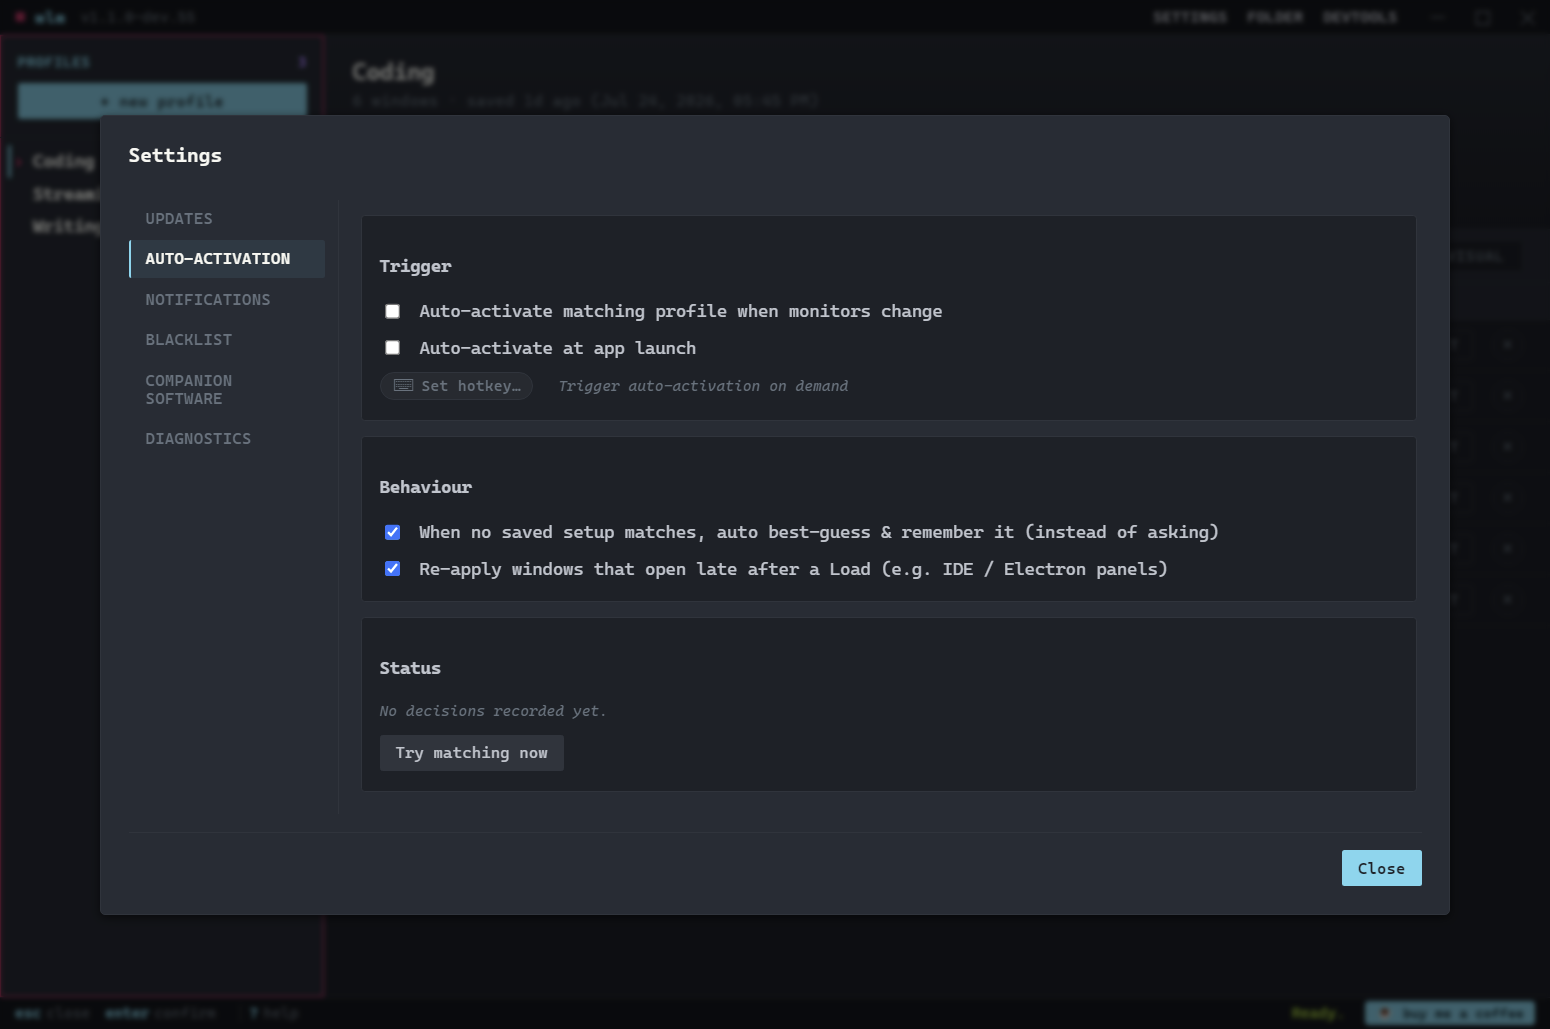
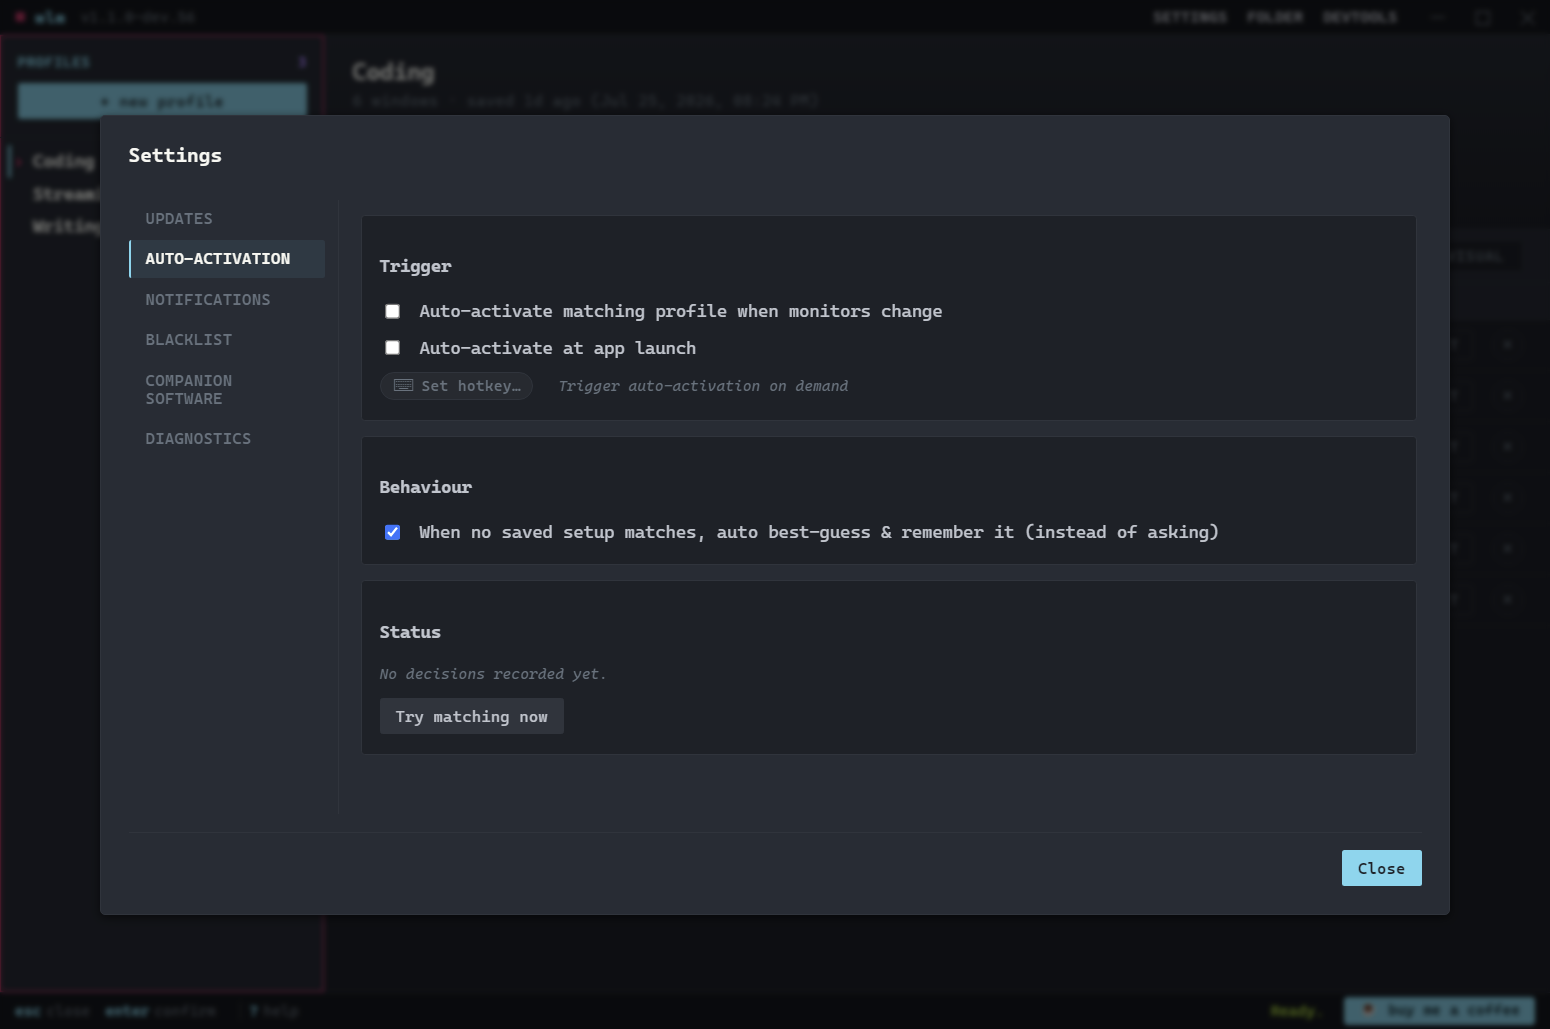
WLM v1.1.0-dev.56: feed, download link, tutorial
Feed points at dev.56 with its sha256 and byte size, and carries the
release notes verbatim since the page renders that field.

Tutorial screenshots regenerated against dev.56. The auto-activation tab
lost the "re-apply windows that open late" checkbox along with the retry
chain, and Diagnostics gained "Request a feature".

New Diagnostics section in the tutorial covering the paths dump and what
the report form sends. The tour has been capturing that screen for a
while with nothing using it.

Screenshots were taken against a neutral C:\Users\Public\wlm-demo
sandbox rather than the default temp dir, so the paths panel does not
publish a username.

Claude-Session: https://claude.ai/code/session_014KfTPNCevtXskfxkABecuc

Changed region(s): [[0.2477, 0.5287, 0.7432, 0.5598], [0.2477, 0.5909, 0.3716, 0.7464], [0.8361, 0.964, 0.991, 1.0]]

diff --git a/projects/windowlayoutmanager/tutorial/index.html b/projects/windowlayoutmanager/tutorial/index.html
@@ -298,6 +298,7 @@
           <li><a href="#updates">Updates</a></li>
           <li><a href="#blacklist">Blacklist</a></li>
           <li><a href="#companion">Companion Software</a></li>
+          <li><a href="#diagnostics">Diagnostics &amp; Reporting a Bug</a></li>
           <li><a href="#cli">CLI, Links &amp; Automation</a></li>
         </ul>
 
@@ -421,6 +422,15 @@
           <h2>Companion Software</h2>
           <p>The "Companion software" tab detects complementary tools (PowerToys for live drag-snap zones, virtual display drivers for headless monitors, Windows Terminal and PowerShell 7 for scripting) and offers one-click installs for whatever's missing.</p>
           <div class="shot"><a href="img/08-settings-companion.png" target="_blank" rel="noopener" title="Open full size"><img src="img/08-settings-companion.png" alt="Companion software settings tab" loading="lazy"></a></div>
+        </section>
+
+        <section id="diagnostics">
+          <p class="prompt-line"><span class="u">wlm</span><span class="p">:~</span>$ <span class="cmd">wlm --tutorial diagnostics</span></p>
+          <h2>Diagnostics &amp; Reporting a Bug</h2>
+          <p>The "Diagnostics" tab shows the app version and the exact paths WLM is reading and writing, which is usually the fastest way to work out why something isn't behaving. "Copy to clipboard" grabs the whole dump, and "Open profiles folder" and "Open crash log" take you straight to the files.</p>
+          <p>"Report a bug" and "Request a feature" open a short form. You'll see exactly what gets sent before anything leaves your machine, the diagnostics dump is optional, and your Windows username is stripped out of the paths. Issues are public, so anything you type there is too.</p>
+          <div class="shot"><a href="img/10-settings-diagnostics.png" target="_blank" rel="noopener" title="Open full size"><img src="img/10-settings-diagnostics.png" alt="Diagnostics settings tab" loading="lazy"></a></div>
+          <p class="caption">// a load that didn't restore everything also links to a per-window report from its notification</p>
         </section>
 
         <section id="cli">

diff --git a/projects/windowlayoutmanager/index.html b/projects/windowlayoutmanager/index.html
@@ -592,7 +592,7 @@
                overwrites it from the feed, and this static fallback should
                download rather than land on a repo listing. -->
           <a class="btn-download" id="dl-btn"
-             href="https://github.com/defessler/WindowLayoutManager-releases/releases/download/v1.1.0-dev.55/WindowLayoutManager-v1.1.0-dev.55-win-x64.zip">Download for Windows</a>
+             href="https://github.com/defessler/WindowLayoutManager-releases/releases/download/v1.1.0-dev.56/WindowLayoutManager-v1.1.0-dev.56-win-x64.zip">Download for Windows</a>
           <div class="dl-meta">
             <div id="dl-version">latest release<span class="pre-badge" id="dl-pre" hidden>pre-release</span></div>
             <div id="dl-info">x64 · portable .zip</div>
